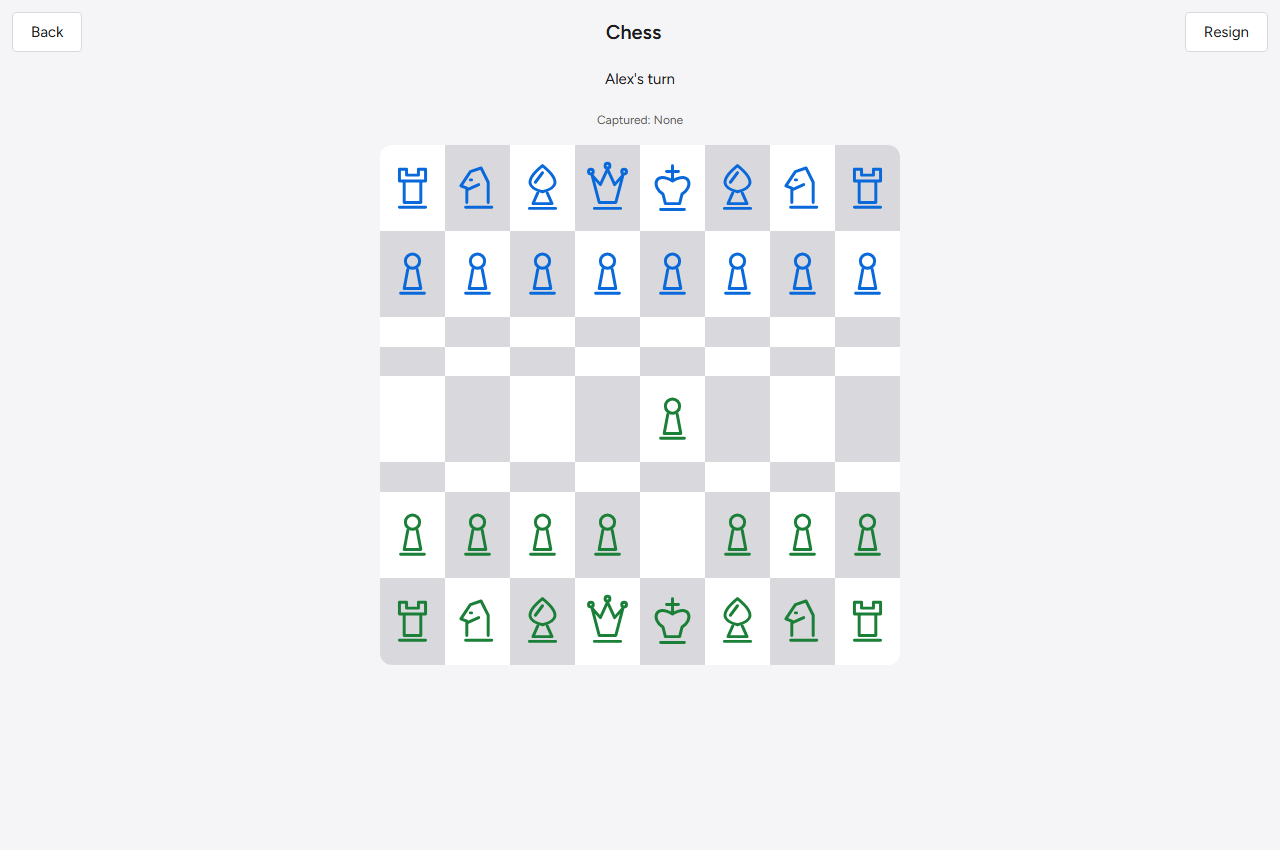
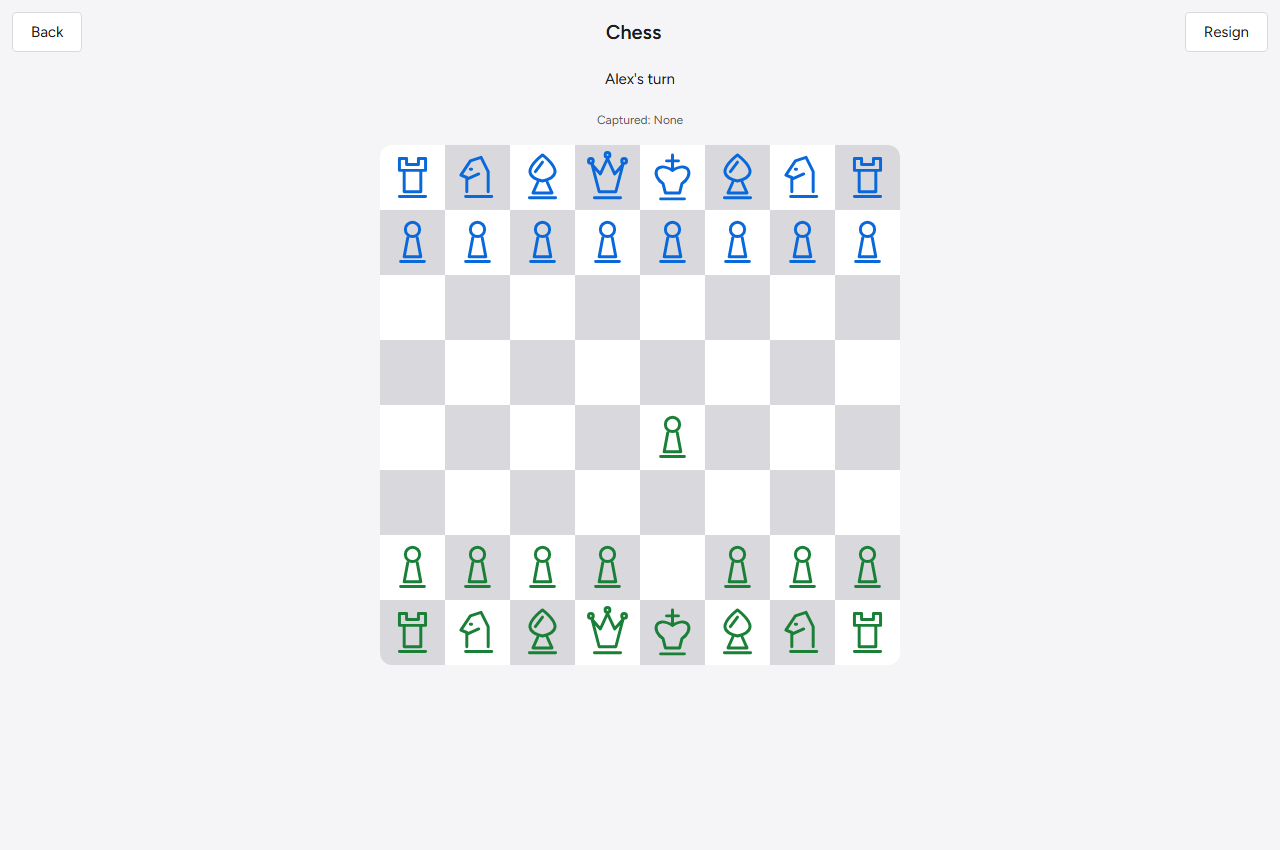
fix(web): address parity self-review findings

Changed region(s): [[0.2812, 0.1835, 0.7188, 0.7953]]

diff --git a/client/src/features/conversationArchive.ts b/client/src/features/conversationArchive.ts
@@ -1,7 +1,7 @@
 import { getMessages, type CurrentConnection, type HistoryMessage } from '../services/connectionsApi'
 import { getSignedUrls } from '../services/attachmentsApi'
 import { downloadBlob, escapeHtml } from '../utils/download'
-import { archiveFilename, archiveFiles, archiveMessages } from './archiveRules'
+import { archiveContent, archiveFilename, archiveFiles, archiveMessages } from './archiveRules'
 import { openModal } from '../components/Modal'
 
 export async function allMessages(id: string, signal?: AbortSignal): Promise<HistoryMessage[]> {
@@ -23,8 +23,7 @@ export function conversationText(messages: HistoryMessage[], current: CurrentCon
   return archiveMessages(messages).map((m) => {
     const name = m.senderId === current.myUserId ? 'You' : current.otherNickname || 'Partner'
     const path = files.get(m.id)
-    const p = (m.payload ?? {}) as { kind?: string; outcome?: string }
-    const content = m.type === 'call' ? `${p.kind === 'video' ? 'Video call' : 'Voice call'}${p.outcome ? ` · ${p.outcome.replaceAll('_', ' ')}` : ''}` : m.content
+    const content = archiveContent(m)
     return `[${new Date(m.createdAt).toLocaleString()}] ${name}: ${path ? `[${m.type === 'image' ? 'Photo' : m.type === 'voice' ? 'Voice message' : m.type === 'letter' ? 'Letter' : 'File'}: ${path}]\n` : ''}${content}${m.editedAt ? ' (edited)' : ''}`
   }).join('\n\n')
 }
@@ -34,7 +33,7 @@ export function conversationHtml(messages: HistoryMessage[], current: CurrentCon
   const rows = archiveMessages(messages).map((m) => {
     const path = files.get(m.id), url = path ? e(path.split('/').map(encodeURIComponent).join('/')) : ''
     const media = !path ? '' : m.type === 'image' ? `<img src="${url}" alt="Shared image">` : m.type === 'voice' ? `<audio controls src="${url}"></audio>` : `<p><a href="${url}">${m.type === 'letter' ? 'Read letter (PDF)' : 'Open file'}</a></p>`
-    return `<article class="${m.senderId === current.myUserId ? 'me' : 'them'}"><small>${e(m.senderId === current.myUserId ? 'You' : current.otherNickname || 'Partner')} · ${e(new Date(m.createdAt).toLocaleString())}</small>${media}<div>${e(m.content)}</div></article>`
+    return `<article class="${m.senderId === current.myUserId ? 'me' : 'them'}"><small>${e(m.senderId === current.myUserId ? 'You' : current.otherNickname || 'Partner')} · ${e(new Date(m.createdAt).toLocaleString())}</small>${media}<div>${e(archiveContent(m))}</div></article>`
   }).join('\n')
   return `<!doctype html><html lang="en"><meta charset="utf-8"><meta name="viewport" content="width=device-width,initial-scale=1"><title>Conversation with ${e(current.otherNickname || 'Partner')}</title><style>body{max-width:720px;margin:auto;padding:20px;font:16px/1.5 system-ui;background:#f6f4f1;color:#161b22}article{max-width:85%;padding:12px;margin:12px 0;background:#fff;border-radius:14px;overflow-wrap:anywhere}.me{margin-left:auto;background:#d6f6d8}small{display:block;color:#485460}article div{white-space:pre-wrap}img,audio{max-width:100%}img{max-height:500px}</style><h1>Conversation with ${e(current.otherNickname || 'Partner')}</h1>${rows}</html>`
 }

diff --git a/client/src/pages/ChatPage.ts b/client/src/pages/ChatPage.ts
@@ -1033,11 +1033,11 @@ export const ChatPage: Page = (root, go) => {
         const original = message.replyTo ? messagesById.get(message.replyTo) : undefined
         const senderName = original ? (original.senderId === myUserId ? 'You' : otherName) : isMine ? otherName : 'You'
         const recipientName = isMine ? 'You' : otherName
-        const picksFor = (opt: 'a' | 'b'): string => {
+        const picksFor = (opt: 'a' | 'b'): string[] => {
           const names: string[] = []
           if (p.pickSender === opt) names.push(senderName)
           if (p.pickRecipient === opt) names.push(recipientName)
-          return names.join(' & ')
+          return names
         }
 
         const card = document.createElement('div')
@@ -1058,7 +1058,7 @@ export const ChatPage: Page = (root, go) => {
           text.textContent = label
           const picks = document.createElement('div')
           picks.className = 'thisorthat-card__picks'
-          for (const name of picksFor(opt).split(' & ').filter(Boolean)) { const chip = document.createElement('span'); chip.className = 'thisorthat-card__pick'; chip.textContent = name; picks.append(chip) }
+          for (const name of picksFor(opt)) { const chip = document.createElement('span'); chip.className = 'thisorthat-card__pick'; chip.textContent = name; picks.append(chip) }
           cell.append(text, picks)
           return cell
         }

diff --git a/client/src/styles/global.css b/client/src/styles/global.css
@@ -3273,9 +3273,9 @@ input:focus {
 .game-board > button[aria-disabled='true'] { cursor: default; }
 .game-board > button:focus-visible { outline: 3px solid var(--accent-other); outline-offset: -3px; z-index: 1; }
 .game-board svg { width: 100%; height: 100%; display: block; }
-.game-board--tictactoe { grid-template-columns: repeat(3,1fr); }
+.game-board--tictactoe { grid-template-columns: repeat(3,1fr); grid-template-rows: repeat(3,minmax(0,1fr)); }
 .game-board--connect4 { grid-template-columns: repeat(7,1fr); grid-template-rows: repeat(6,1fr); aspect-ratio: 7/6; }
-.game-board--chess { grid-template-columns: repeat(8,1fr); touch-action: none; }
+.game-board--chess { grid-template-columns: repeat(8,1fr); grid-template-rows: repeat(8,minmax(0,1fr)); touch-action: none; }
 .game-board--chess > button { border: 0; touch-action: none; }
 .game-board > .game-cell--mine, .game-box.game-cell--mine { color: var(--accent-you); }
 .game-board > .game-cell--other, .game-box.game-cell--other { color: var(--accent-other); }

diff --git a/client/src/features/archiveRules.ts b/client/src/features/archiveRules.ts
@@ -1,5 +1,13 @@
 import type { HistoryMessage } from '../services/connectionsApi'
 
+export function archiveContent(message: HistoryMessage): string {
+  if (message.type !== 'call') return message.content
+  const p = (message.payload ?? {}) as { kind?: string; outcome?: string; durationSec?: number }
+  const outcomes: Record<string, string> = { missed: 'Missed', declined: 'Declined', cancelled: 'Cancelled', completed: 'Completed', failed: 'Failed', unreachable: 'Not reached' }
+  const seconds = Math.max(0, Math.round(p.durationSec || 0))
+  return `${p.kind === 'video' ? 'Video call' : 'Voice call'} · ${outcomes[p.outcome || ''] || 'Ended'}${seconds ? ` · ${Math.floor(seconds / 60)}:${String(seconds % 60).padStart(2, '0')}` : ''}`
+}
+
 export function archiveMessages(messages: HistoryMessage[]): HistoryMessage[] {
   return messages.filter((m) => m.id && !m.deletedAt && m.type !== 'system')
 }

diff --git a/client/src/features/voiceTyping.ts b/client/src/features/voiceTyping.ts
@@ -21,7 +21,10 @@ export function startVoiceTyping(composer: HTMLElement, input: HTMLTextAreaEleme
   bar.innerHTML = '<span role="status">Listening…</span><button type="button" data-stop>Stop</button><button type="button" data-cancel>Cancel</button>'
   composer.before(bar)
   let active = true
-  const finish = () => { active = false; clearTimeout(timer); bar.remove(); document.removeEventListener('visibilitychange', hidden) }
+  const finish = () => {
+    active = false; clearTimeout(timer); bar.remove(); document.removeEventListener('visibilitychange', hidden)
+    recognition.onresult = recognition.onerror = recognition.onend = null
+  }
   const cancel = () => { if (!active) return; finish(); recognition.abort() }
   const hidden = () => { if (document.hidden) cancel() }
   const timer = setTimeout(() => recognition.stop(), 120_000)

diff --git a/docs/PROGRESS.md b/docs/PROGRESS.md
@@ -10,7 +10,9 @@ Implemented on `feat/web-2.0.6-parity`, based on current main `89d7486`. Client-
 - Browser /audio dictation inserts into the current draft without sending; unsupported-browser notice and cancel/late-event cleanup. Letter speechSynthesis speaker stops on close/background. No speech-server requests.
 - Letter SVG preview and PDF share measured A4 layout, unbreakable signature plus three final body lines, and near-one-page 20/18/17pt sizing. Chat: end-aligned /ask meta, two choice tiles/chips/match line, single reaction pill, directional/scroll-safe touch reply, vector headings/call icons, human labels, explicit server encryption copy and existing themed loader. Settings lists blocked accounts by date rather than ID.
 
-Validation: `client/ npm ci`, `npm test` (29 passing), `npm run build` and `npm audit --omit=dev` (zero vulnerabilities). Isolated Chromium fixtures at 1280/360px cover both themes, all five game UIs, one full two-page tic-tac-toe match with exact relay sequences, speech UI (mock browser engines), full ZIP contents/deleted filtering/cancel, leave and ended boot routing. Existing full chat/media regression suite passes both widths/all wallpapers, including local sticker cut-out inference; owner-feedback regression covers gates, share, letters/PDFs and alarms. Screenshots and reproduction: [ui-web-2.0.6](ui-web-2.0.6/README.md).
+Validation: `client/ npm ci`, `npm test` (30 passing), `npm run build` and `npm audit --omit=dev` (zero vulnerabilities). Isolated Chromium fixtures at 1280/360px cover both themes, all five game UIs, one full two-page tic-tac-toe match with exact relay sequences, speech UI (mock browser engines), full ZIP contents/deleted filtering/cancel and readable call records, leave and ended boot routing. Existing full chat/media regression suite passes both widths/all wallpapers, including local sticker cut-out inference; owner-feedback regression covers gates, share, letters/PDFs and alarms. Screenshots and reproduction: [ui-web-2.0.6](ui-web-2.0.6/README.md).
+
+Self-review fixed equal-height chess/tic-tac-toe cells, ampersands/markup in choice names, speech callback cleanup, readable call records in both archive formats and the installed JSZip notice version. Regression assertions cover the layout/name/cancel cases.
 
 Limits: ZIP assembly buffers bytes in browser memory; very large chats depend on device memory. PDF text remains rasterized to preserve Unicode. Best-of-three tally is local because Android's relay has no series metadata. Web Speech availability/voices depend on the browser. No physical phone/Capacitor push, audible speech, live-account or web-to-Android device match was claimed; protocol/rules were checked against Android fixtures. Existing development-tool audit findings and the mixed static/dynamic push-import build warning remain. No backend/schema/contract, workflow, hosting settings, secrets, prompt or Android files were changed.
 
